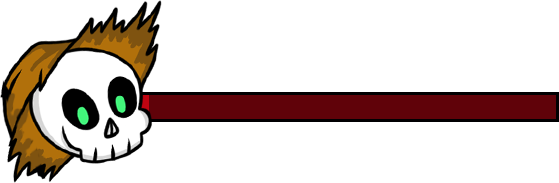
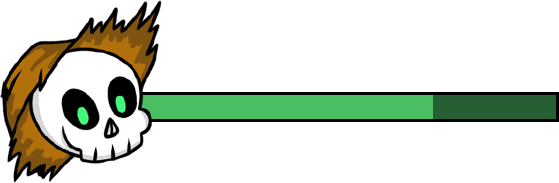
Implementacion de ganar y perder, manejo de la vida(puede mejorar), falta imagenes ganar y perder

Changed region(s): [[0.2433, 0.5191, 1.0, 0.6557]]

diff --git a/core/src/mx/itesm/skullfighter/NivelUno.java b/core/src/mx/itesm/skullfighter/NivelUno.java
@@ -77,7 +77,7 @@ public class NivelUno extends PantallaAbstracta implements Screen {
     private Componente vidaE;
     private Texture[] texturaVidaE;
     private int indexVidaJ = 6;
-    // 1= ejecucion, 2=pausa
+    // 1= ejecucion, 0=pausa, 3 perdio, 4 gano
     private int estado = 1;
 
     //Pausa
@@ -89,6 +89,17 @@ public class NivelUno extends PantallaAbstracta implements Screen {
     private Texture texturaQuitPausa;
     private Boton BtnResumePausa;
     private Texture texturaResumePausa;
+    private boolean eneAtacoPu = false;
+    private boolean juAtacoPu = false;
+    private int indexVidaE = 6;
+    private boolean juAtacoWe = false;
+    private Boton BtnRestartGame;
+    private Texture TexturaBtnRestartGame;
+
+    private Componente win;
+    private Texture texturaWin;
+    private Componente lose;
+    private Texture texturaLose;
 
 
     public NivelUno(Principal principal) {
@@ -119,6 +130,15 @@ public class NivelUno extends PantallaAbstracta implements Screen {
 
         MenuPausa = new Componente(texturaMenuPausa);
         MenuPausa.setPosicion(417,120);
+
+        win = new Componente(texturaWin);
+        win.setPosicion(585,400);
+
+        lose = new Componente(texturaLose);
+        win.setPosicion(585,400);
+
+        BtnRestartGame = new Boton(TexturaBtnRestartGame);
+        BtnRestartGame.setPosicion(585,350);
 
 
 
@@ -153,6 +173,7 @@ public class NivelUno extends PantallaAbstracta implements Screen {
             }
             if(verificarBoton(x,y,btnPunch)){
                 jugador.setAtacandoPu(true);
+                juAtacoPu = true;
             }
             if(verificarBoton(x,y,btnWeapon) ){
                 jugador.setAtacandoWe(true);
@@ -315,6 +336,10 @@ public class NivelUno extends PantallaAbstracta implements Screen {
         texturaEnePunchIzq[0] = new Texture(Gdx.files.internal("EnemigoPun1Izq.png"));
         texturaEnePunchIzq[1] = new Texture(Gdx.files.internal("EnemigoPun2Izq.png"));
         texturaEnePunchIzq[2] = new Texture(Gdx.files.internal("Enemigo1Izq.png"));
+       ///////////////////////////
+        texturaWin = new Texture(Gdx.files.internal("BotonStory.png"));
+        texturaLose = new Texture(Gdx.files.internal("BotonSettings.png"));
+        TexturaBtnRestartGame = new Texture(Gdx.files.internal("Resume.png"));
 
         texturaVidaJ = new Texture[7];
         texturaVidaE = new Texture[7];
@@ -327,6 +352,8 @@ public class NivelUno extends PantallaAbstracta implements Screen {
         texturaQuitPausa = new Texture(Gdx.files.internal("Quit.png"));
         texturaResumePausa = new Texture(Gdx.files.internal("Resume.png"));
         texturaFonPausa =new Texture(Gdx.files.internal("negro.png"));
+
+
 
 
         texturaBtnDer = new Texture(Gdx.files.internal("botonder.png"));
@@ -436,9 +463,41 @@ public class NivelUno extends PantallaAbstracta implements Screen {
             BtnQuitPausa.render(batch);
             BtnResumePausa.render(batch);
 
+        }else if(this.estado == 3){
+            leerEntradaFin();
+            fondoPausa.render(batch);
+            lose.render(batch);
+            BtnRestartGame.render(batch);
+            BtnQuitPausa.render(batch);
+
+
+        }else if(this.estado == 4){
+            leerEntradaFin();
+            fondoPausa.render(batch);
+            win.render(batch);
+            BtnRestartGame.render(batch);
+
+            BtnQuitPausa.render(batch);
         }
         batch.end();
 
+    }
+
+    private void leerEntradaFin() {
+        Vector3 coordenadas = new Vector3();
+        coordenadas.set(Gdx.input.getX(), Gdx.input.getY(), 0);
+        camara.unproject(coordenadas);  //traduce las coordenadas
+        float x = coordenadas.x;
+        float y = coordenadas.y;
+        if(Gdx.input.justTouched()) {
+            if(verificarBoton(x, y, BtnRestartGame)){
+                this.principal.setScreen(new PantallaJuego(principal));
+            }
+            if(verificarBoton(x,y,BtnQuitPausa)){
+                this.principal.setScreen(new P2(principal));
+            }
+
+        }
     }
 
     private void leerEntradaPausa() {
@@ -452,33 +511,74 @@ public class NivelUno extends PantallaAbstracta implements Screen {
                 resumirJuego();
             }
             if(verificarBoton(x,y,BtnQuitPausa)){
-                this.principal.setScreen(new PantallaMenu(principal));
+                this.principal.setScreen(new P2(principal));
             }
-            if(verificarBoton(x,y,btnWeapon) ){
-                jugador.setAtacandoWe(true);
-            }
+
         }
     }
 
     private void revisarColi() {
-
+        //System.out.print(juAtacoWe);
+        //System.out.println(indexVidaE);
         if(enemigo.getSprite().getX()+10>jugador.getSprite().getX()&&enemigo.getSprite().getX()-10<jugador.getSprite().getX()){
             //System.out.print("tru de x");
             //System.out.print(conPuE);
-        if(enemigo.getAtacandoPu() == true &&conPuE%3==0){
+        if(eneAtacoPu== true &&conPuE%3==0){
             //System.out.print("tru de x");
-            if(indexVidaJ!=0){
+            if(indexVidaJ>0){
                 indexVidaJ--;
                 float x = vidaJ.getSprite().getX();
                 float y = vidaJ.getSprite().getY();
                 vidaJ.setTextura(texturaVidaJ[indexVidaJ]);
                 vidaJ.setPosicion(x,y);
             }else if(indexVidaJ ==0){
+                perdioJuego();
+            }
+            eneAtacoPu = false;
+        }
 
+            if(juAtacoPu== true &&conPuJ%3==0){
+                //System.out.print("tru de x");
+                if(indexVidaE>0){
+                    indexVidaE--;
+                    float x = vidaE.getSprite().getX();
+                    float y = vidaE.getSprite().getY();
+                    vidaE.setTextura(texturaVidaE[indexVidaE]);
+                    vidaE.setPosicion(x,y);
+                }else if(indexVidaE ==0){
+                    ganoJuego();
+                }
+                juAtacoPu = false;
+            }else if(juAtacoWe== true){
+                //System.out.println("tru de x");
+                //System.out.println(indexVidaE + "hola");
+                if(indexVidaE>0){
+                    indexVidaE-=2;
+                    System.out.print("llegue");
+                    float x = vidaE.getSprite().getX();
+                    float y = vidaE.getSprite().getY();
+                    vidaE.setTextura(texturaVidaE[indexVidaE]);
+                    vidaE.setPosicion(x,y);
+                }else if(indexVidaE ==0){
+                    ganoJuego();
+                }
+                juAtacoWe = false;
             }
         }
+        else{
+            eneAtacoPu = false;
+            juAtacoPu = false;
+            juAtacoWe = false;
         }
 
+    }
+
+    private void ganoJuego() {
+        this.estado = 4;
+    }
+
+    private void perdioJuego() {
+        this.estado = 3;
     }
 
     private void movimientoEnemigo() {
@@ -496,7 +596,7 @@ public class NivelUno extends PantallaAbstracta implements Screen {
     }
 
     private void ataqueEnemigo() {
-        if(Math.random()*25+1 <2) {
+        if(Math.random()*80+1 <2) {
             enemigo.setAtacandoPu(true);
         }
     }
@@ -527,6 +627,7 @@ public class NivelUno extends PantallaAbstracta implements Screen {
                 }
                 if (conWeJ % 5 == 0) {
                     per.setAtacandoWe(false);
+                    juAtacoWe = true;
                     conWeJ++;
                 }
                 //System.out.print(conWe);
@@ -594,6 +695,7 @@ public class NivelUno extends PantallaAbstracta implements Screen {
                 }
                 if (conPuE % 4 == 0) {
                     per.setAtacandoPu(false);
+                    eneAtacoPu = true;
 
                     conPuE++;
                 }

diff --git a/core/src/mx/itesm/skullfighter/PantallaJuego.java b/core/src/mx/itesm/skullfighter/PantallaJuego.java
@@ -40,8 +40,7 @@ public class PantallaJuego extends PantallaAbstracta implements Screen {
     private Personaje jugador;
     private Texture[] texturaMovDer;
     private Texture[] texturaMovIzq;
-    private Personaje Civil1;
-    private Texture[] texturasCivil1;
+
     private Personaje Civil2;
     private Texture[] texturasCivil2;
     private int con = 0;
@@ -55,6 +54,13 @@ public class PantallaJuego extends PantallaAbstracta implements Screen {
 
     private Componente tip;
     private Texture texturaTip;
+
+    private Componente Civil1;
+    private Texture texturaCivil1;
+
+    private Boton TextoCivil1;
+    private Texture texturaTextoCivil1;
+
 
     private int Mov = 0;
     private int ConCiv = 0;
@@ -76,6 +82,12 @@ public class PantallaJuego extends PantallaAbstracta implements Screen {
         jugador.setPosicion(-15, -30);
         Civil2 = new Personaje(texturasCivil2[0]);
         Civil2.setPosicion(1900, 30);
+
+        Civil1 = new Componente(texturaCivil1);
+        Civil1.setPosicion(3750,30);
+
+        TextoCivil1 = new Boton(texturaTextoCivil1);
+        TextoCivil1.setPosicion(3500,350);
 
         tip = new Componente(texturaTip);
         tip.setPosicion(1650,350);
@@ -118,6 +130,7 @@ public class PantallaJuego extends PantallaAbstracta implements Screen {
         leerEntrada(); // Revisar eventos
         // Mover la cámara para que siga al personaje
         animacionCiviles(Civil2);
+        leerEntrada2();
 
 
         batch.setProjectionMatrix(camara.combined);
@@ -127,6 +140,8 @@ public class PantallaJuego extends PantallaAbstracta implements Screen {
         fondo.render(batch);
         Civil2.render(batch);
         tip.render(batch);
+        Civil1.render(batch);
+        TextoCivil1.render(batch);
         jugador.render(batch);
         jugador.actualizar();
 
@@ -139,9 +154,23 @@ public class PantallaJuego extends PantallaAbstracta implements Screen {
         batch.begin();
         btnIzq.render(batch);
         btnDer.render(batch);
-        btnBrin.render(batch);
+        //btnBrin.render(batch);
         btnBack.render(batch);
         batch.end();
+    }
+
+    private void leerEntrada2() {
+        Vector3 coordenadas = new Vector3();
+        coordenadas.set(Gdx.input.getX(), Gdx.input.getY(), 0);
+        camara.unproject(coordenadas);  //traduce las coordenadas
+        float x = coordenadas.x;
+        float y = coordenadas.y;
+
+        if(Gdx.input.justTouched()) {
+            if (verificarBoton(x, y, TextoCivil1) && verificarBordes()) {
+                this.principal.setScreen(new NivelUno(this.principal));
+            }
+        }
     }
 
     private void animacionCiviles(Personaje civil) {
@@ -158,7 +187,7 @@ public class PantallaJuego extends PantallaAbstracta implements Screen {
             if(civil.equals(Civil2)) {
                 civil.setSprite(texturasCivil2[ConCiv % 3]);
             }else{
-                civil.setSprite(texturasCivil1[ConCiv % 3]);
+                civil.setSprite(texturasCivil2[ConCiv % 3]);
             }
         }
         if(ConCiv>500){
@@ -208,33 +237,36 @@ public class PantallaJuego extends PantallaAbstracta implements Screen {
                 actualizarCamara();
             }
         }
-        if(Gdx.input.justTouched()) {
+       /* if(Gdx.input.justTouched()) {
             if(verificarBoton(x, y, btnBrin)){
                 if(jugador.getEstado() == Personaje.Estado.NORMAL) {
                     jugador.movimientoBrin();
                 }
             }
-        }
+        }*/
         if(Gdx.input.justTouched() &&Gdx.input.isTouched()){
-            if(verificarBoton(x,y,btnDer) && verificarBoton(x, y, btnBrin) && verificarBordes()){
+            if(verificarBoton(x,y,btnDer) /*&& verificarBoton(x, y, btnBrin)*/ && verificarBordes()){
                 movimientoDer();
                 actualizarCamara();
                 if(jugador.getEstado() == Personaje.Estado.NORMAL) {
-                    jugador.movimientoBrin();
+                    //jugador.movimientoBrin();
                 }
             }
-            if(verificarBoton(x,y,btnIzq)&& verificarBoton(x, y, btnBrin) && verificarBordes() ){
+            if(verificarBoton(x,y,btnIzq)/*&& verificarBoton(x, y, btnBrin) */&& verificarBordes() ){
                 movimientoIzq();actualizarCamara();
                 if(jugador.getEstado() == Personaje.Estado.NORMAL) {
-                    jugador.movimientoBrin();
+                    //jugador.movimientoBrin();
                 }
             }
             if(verificarBoton(x,y, btnBack)){
 
                 //cambiar a pantalla de jugar
-                principal.setScreen(new NivelUno(principal));
+                principal.setScreen(new P2(principal));
             }
+
         }
+
+
     }
 
     public boolean verificarBordes() {
@@ -310,6 +342,9 @@ public class PantallaJuego extends PantallaAbstracta implements Screen {
         texturaFondo2 = new Texture(Gdx.files.internal("Fondo-Capa1.png"));
 
         texturaTip = new Texture(Gdx.files.internal("Civil2/Tip.png"));
+
+        texturaCivil1 = new Texture(Gdx.files.internal("CivilFrente1.png"));
+        texturaTextoCivil1 = new Texture(Gdx.files.internal("Civil2/Tip.png"));
 
         texturaBtnDer = new Texture(Gdx.files.internal("botonder.png"));
         texturaBtnIzq = new Texture(Gdx.files.internal("botonizq.png"));
